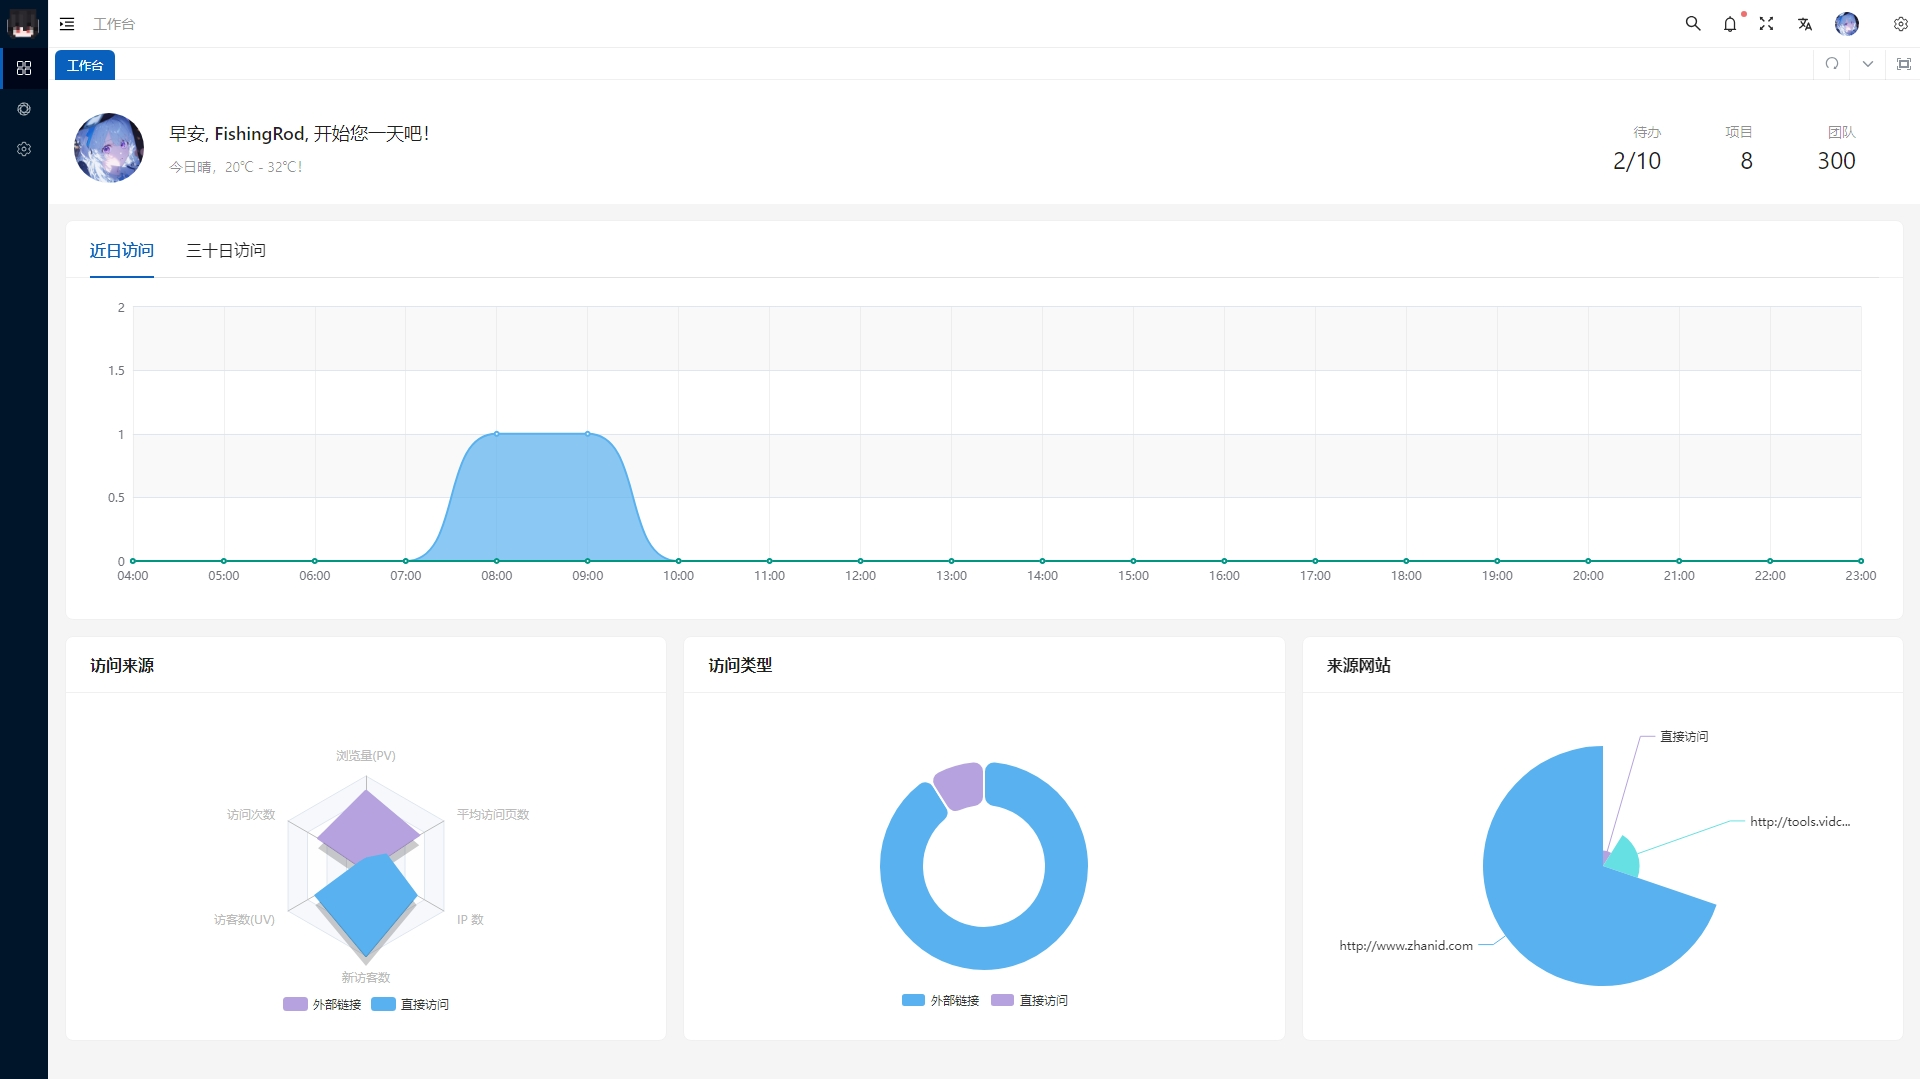
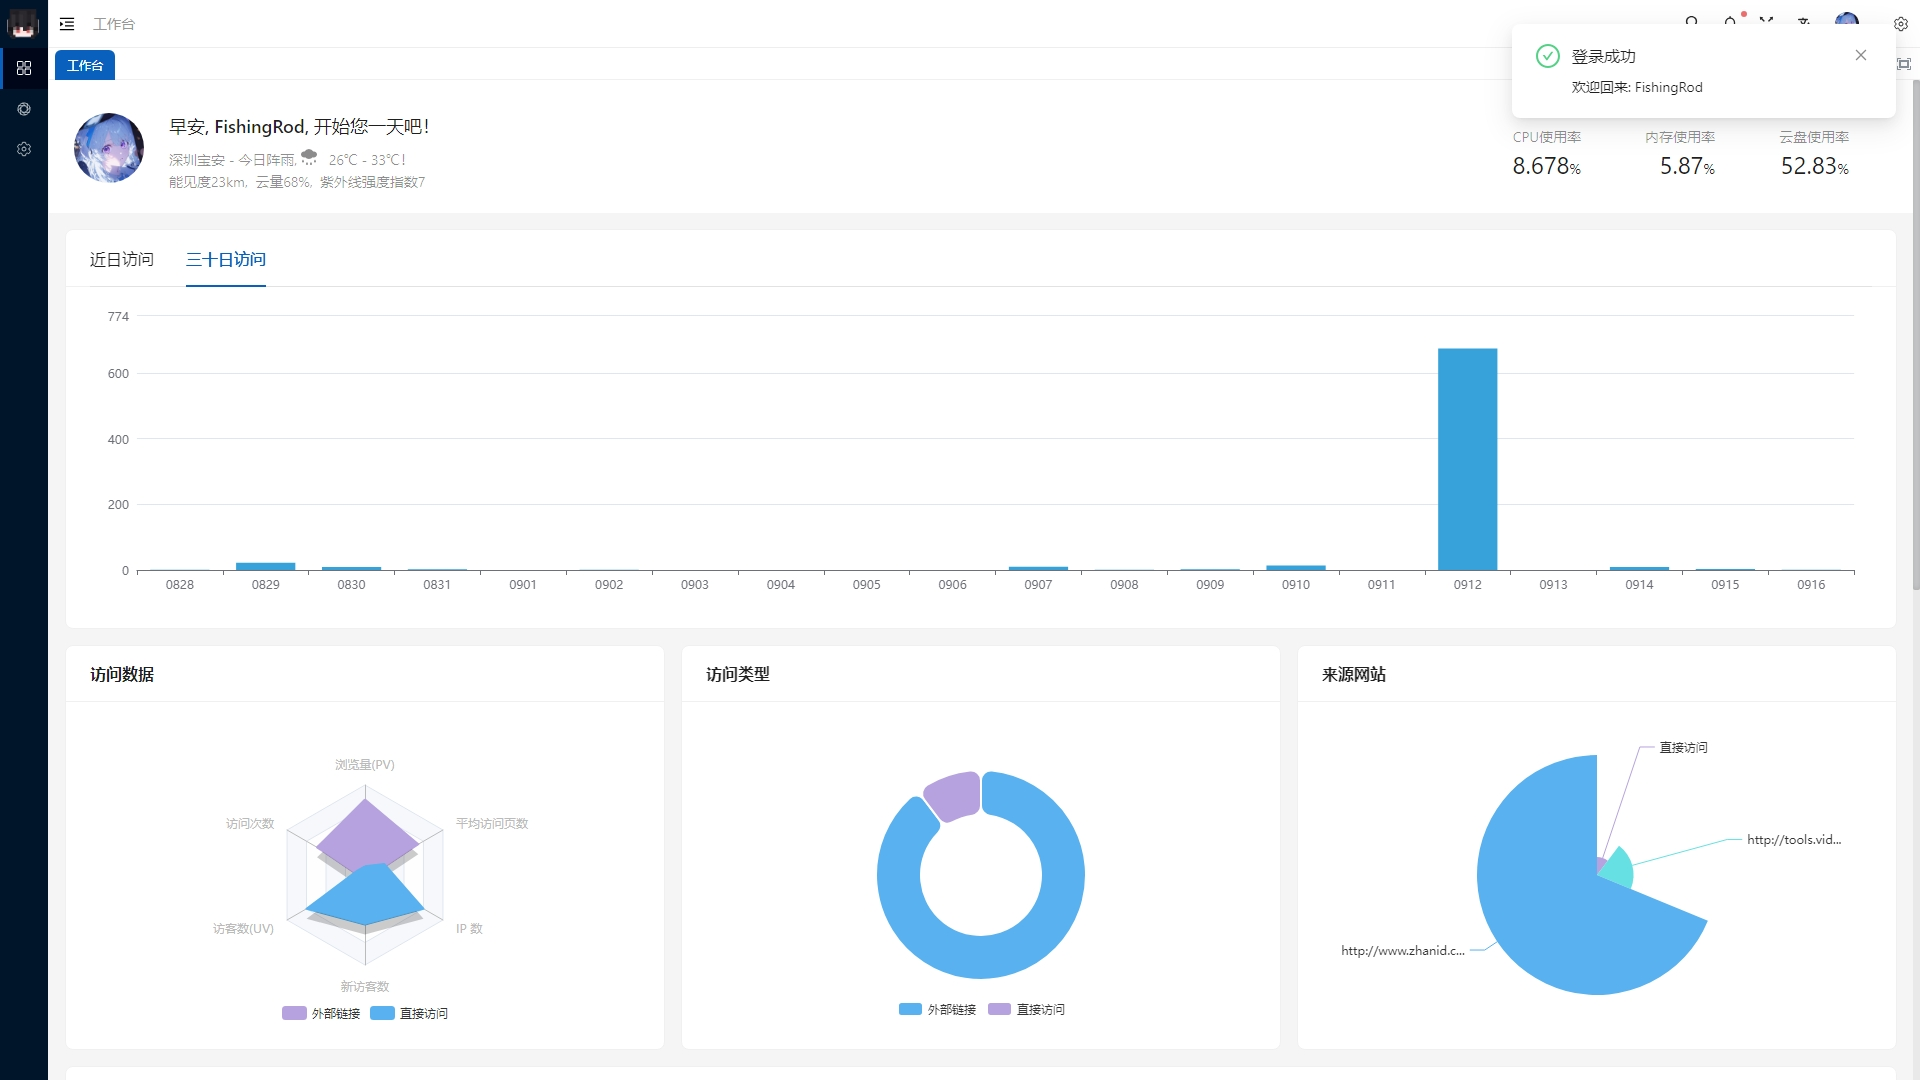
关于页更新

diff --git a/source/about/index.md b/source/about/index.md
@@ -17,10 +17,20 @@ date: 2024-02-28 17:42:13
 # 关于网站
 博客部署在阿里云服务器，采用Hexo&Fluid搭建，代码分离为了主仓库（代码仓库）、子仓库（文档仓库）放置在了Github。
 后台采用Vue3&TypeScript-Vben框架完成前端部分开发，Python3-DjangoRestFramework框架完成后端部分开发，使用MySQL数据库存储。
-整个项目遵循敏捷开发思路，通过GithubActions持续构建与部署。接入了百度API、GithubAPI
+整个项目遵循敏捷开发思路，通过GithubActions持续构建与部署。目前接入了阿里云OpenAPI、百度API、GithubAPI、和风天气。
 笔记内容保存至Github子仓库，通过push触发文档子仓库的trigger，通知主仓库完成指定部署工作流程。
 
-![后台工作台1](https://www.fishingrodd.cn/img/demo1.png)
-![后台工作台2](https://www.fishingrodd.cn/img/demo2.png)
+
+
+## 后台系统
+
+![后台PC工作台-阿里云OpenAPI、百度统计API、和风天气API接入](https://www.fishingrodd.cn/img/demo1.png)
+![后台PC工作台 - 最近访问动态](https://www.fishingrodd.cn/img/demo2.png)
+
+![移动端PC工作台](https://www.fishingrodd.cn/img/demo3.jpg)
+
+
+
+## todo
 
 目前整体应用还存在优化空间，挖坑待填：Celery异步文档IO任务、环境变量&配置管理etcd/confd、基础资源监控
